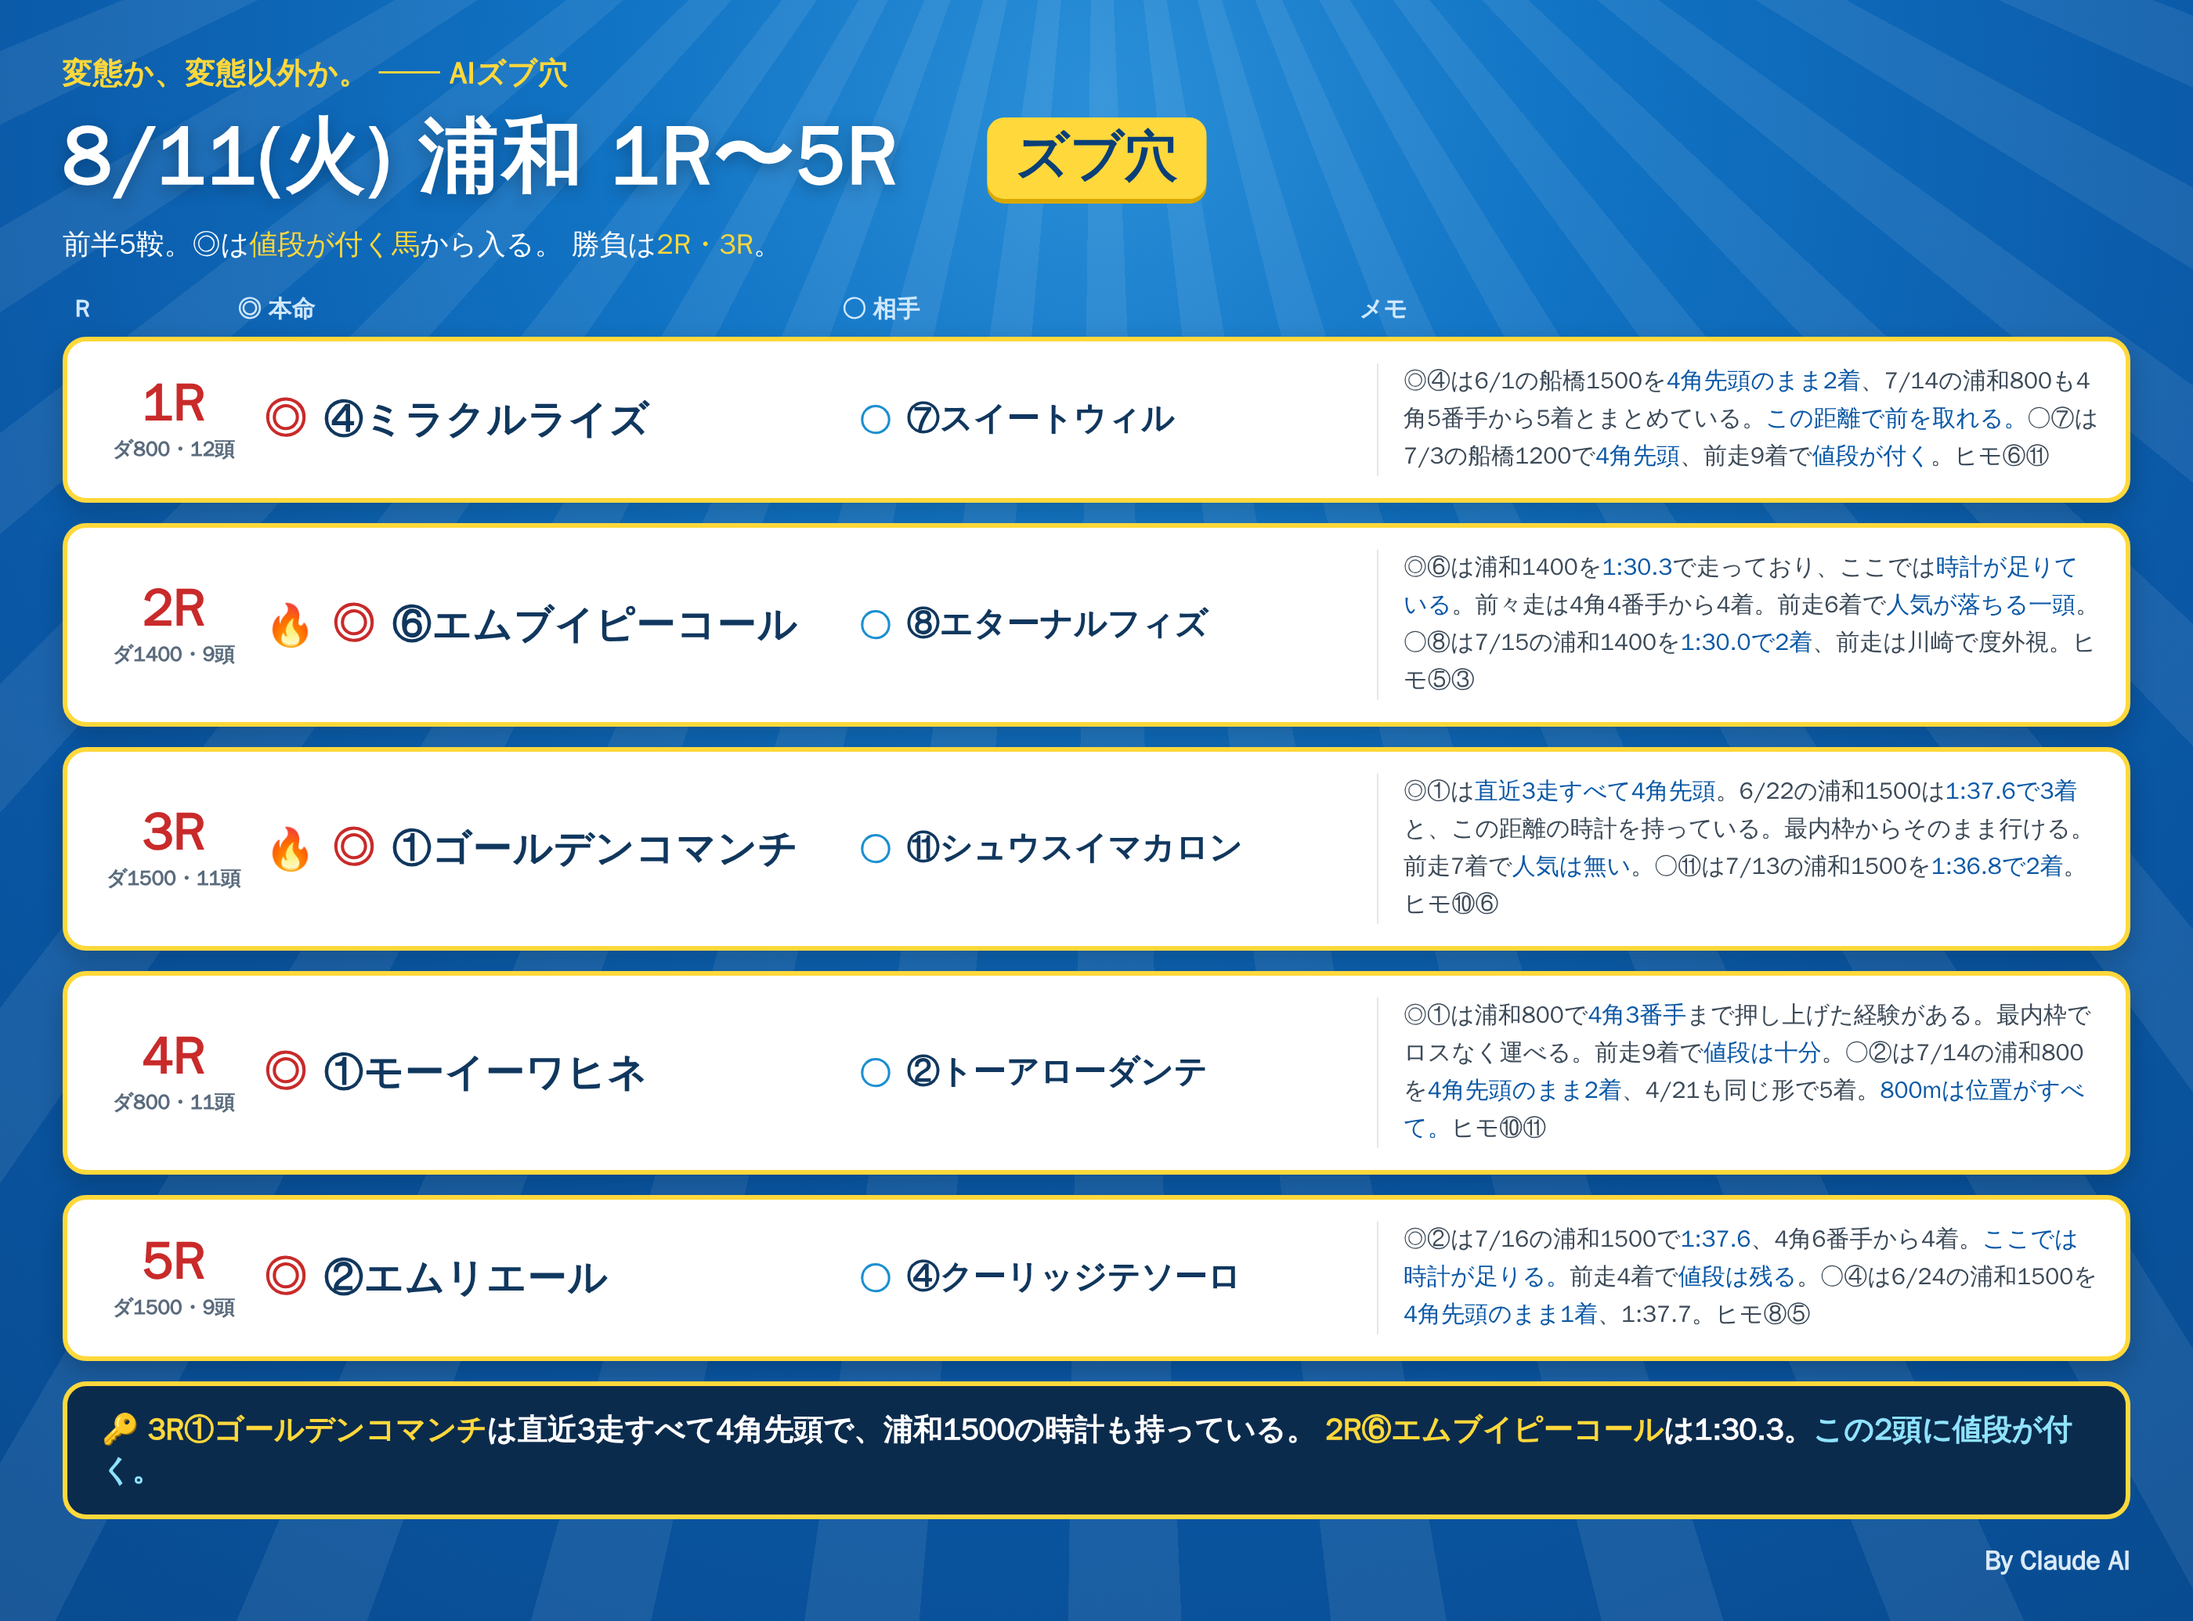
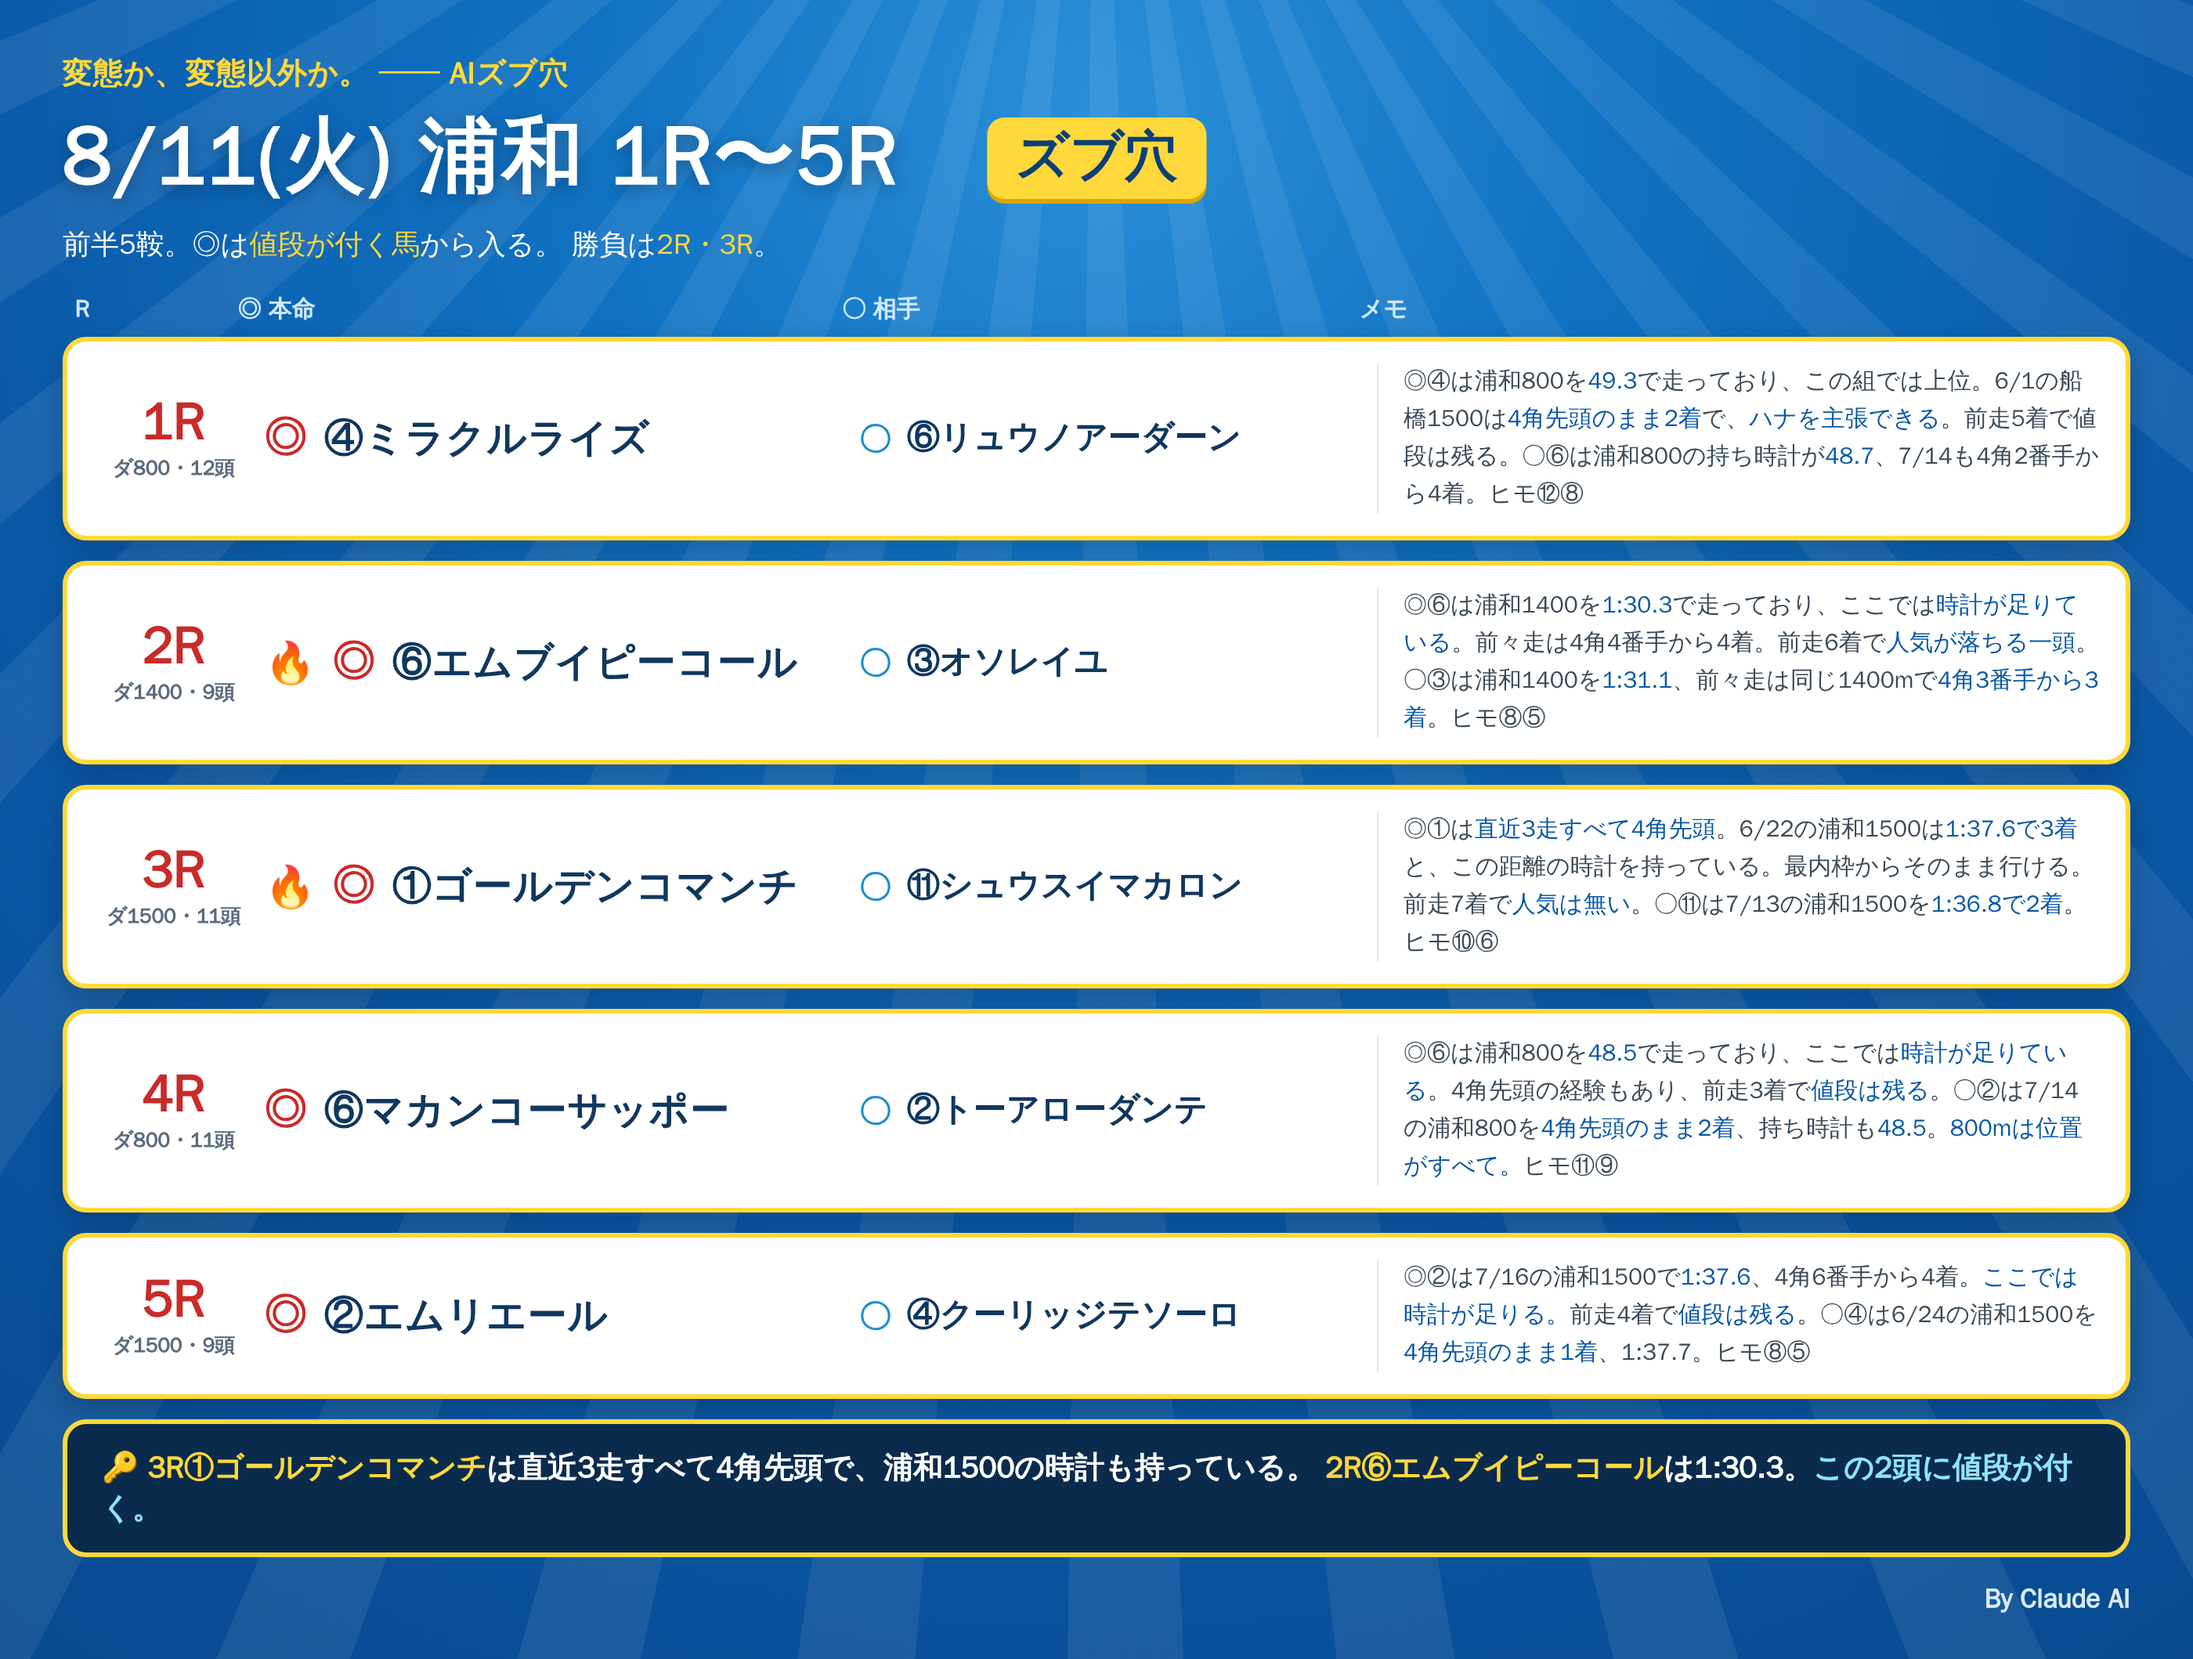
8/11 浦和 1R・2R・4Rの印を修正
800m戦の持ち時計を過去レースの結果ページから取得できるようにし、
同条件(7/14 ランチタイムC3選抜イ 3着48.8)を基準に1R・4Rを組み直した。
2Rの○は③オソレイユに変更。

Claude-Session: https://claude.ai/code/session_01RoHscZkr96FNaxQWvUqgEw

diff --git a/notes/live/2026-08-11/urawa_1_5.html b/notes/live/2026-08-11/urawa_1_5.html
@@ -53,15 +53,15 @@
   <div class="row">
     <div class="rN"><div class="n">1R</div><div class="d">ダ800・12頭</div></div>
     <div class="hm"><span class="mk">◎</span><span class="nm">④ミラクルライズ</span></div>
-    <div class="at"><span class="mk2">○</span><span class="nm2">⑦スイートウィル</span></div>
-    <div class="memo">◎④は6/1の船橋1500を<b>4角先頭のまま2着</b>、7/14の浦和800も4角5番手から5着とまとめている。<b>この距離で前を取れる。</b>○⑦は7/3の船橋1200で<b>4角先頭</b>、前走9着で<b>値段が付く</b>。ヒモ⑥⑪</div>
+    <div class="at"><span class="mk2">○</span><span class="nm2">⑥リュウノアーダーン</span></div>
+    <div class="memo">◎④は浦和800を<b>49.3</b>で走っており、この組では上位。6/1の船橋1500は<b>4角先頭のまま2着</b>で、<b>ハナを主張できる</b>。前走5着で値段は残る。○⑥は浦和800の持ち時計が<b>48.7</b>、7/14も4角2番手から4着。ヒモ⑫⑧</div>
   </div>
 
   <div class="row">
     <div class="rN"><div class="n">2R</div><div class="d">ダ1400・9頭</div></div>
     <div class="hm"><span class="fire">🔥</span><span class="mk">◎</span><span class="nm">⑥エムブイピーコール</span></div>
-    <div class="at"><span class="mk2">○</span><span class="nm2">⑧エターナルフィズ</span></div>
-    <div class="memo">◎⑥は浦和1400を<b>1:30.3</b>で走っており、ここでは<b>時計が足りている</b>。前々走は4角4番手から4着。前走6着で<b>人気が落ちる一頭</b>。○⑧は7/15の浦和1400を<b>1:30.0で2着</b>、前走は川崎で度外視。ヒモ⑤③</div>
+    <div class="at"><span class="mk2">○</span><span class="nm2">③オソレイユ</span></div>
+    <div class="memo">◎⑥は浦和1400を<b>1:30.3</b>で走っており、ここでは<b>時計が足りている</b>。前々走は4角4番手から4着。前走6着で<b>人気が落ちる一頭</b>。○③は浦和1400を<b>1:31.1</b>、前々走は同じ1400mで<b>4角3番手から3着</b>。ヒモ⑧⑤</div>
   </div>
 
   <div class="row">
@@ -73,9 +73,9 @@
 
   <div class="row">
     <div class="rN"><div class="n">4R</div><div class="d">ダ800・11頭</div></div>
-    <div class="hm"><span class="mk">◎</span><span class="nm">①モーイーワヒネ</span></div>
+    <div class="hm"><span class="mk">◎</span><span class="nm">⑥マカンコーサッポー</span></div>
     <div class="at"><span class="mk2">○</span><span class="nm2">②トーアローダンテ</span></div>
-    <div class="memo">◎①は浦和800で<b>4角3番手</b>まで押し上げた経験がある。最内枠でロスなく運べる。前走9着で<b>値段は十分</b>。○②は7/14の浦和800を<b>4角先頭のまま2着</b>、4/21も同じ形で5着。<b>800mは位置がすべて。</b>ヒモ⑩⑪</div>
+    <div class="memo">◎⑥は浦和800を<b>48.5</b>で走っており、ここでは<b>時計が足りている</b>。4角先頭の経験もあり、前走3着で<b>値段は残る</b>。○②は7/14の浦和800を<b>4角先頭のまま2着</b>、持ち時計も<b>48.5</b>。<b>800mは位置がすべて。</b>ヒモ⑪⑨</div>
   </div>
 
   <div class="row">
